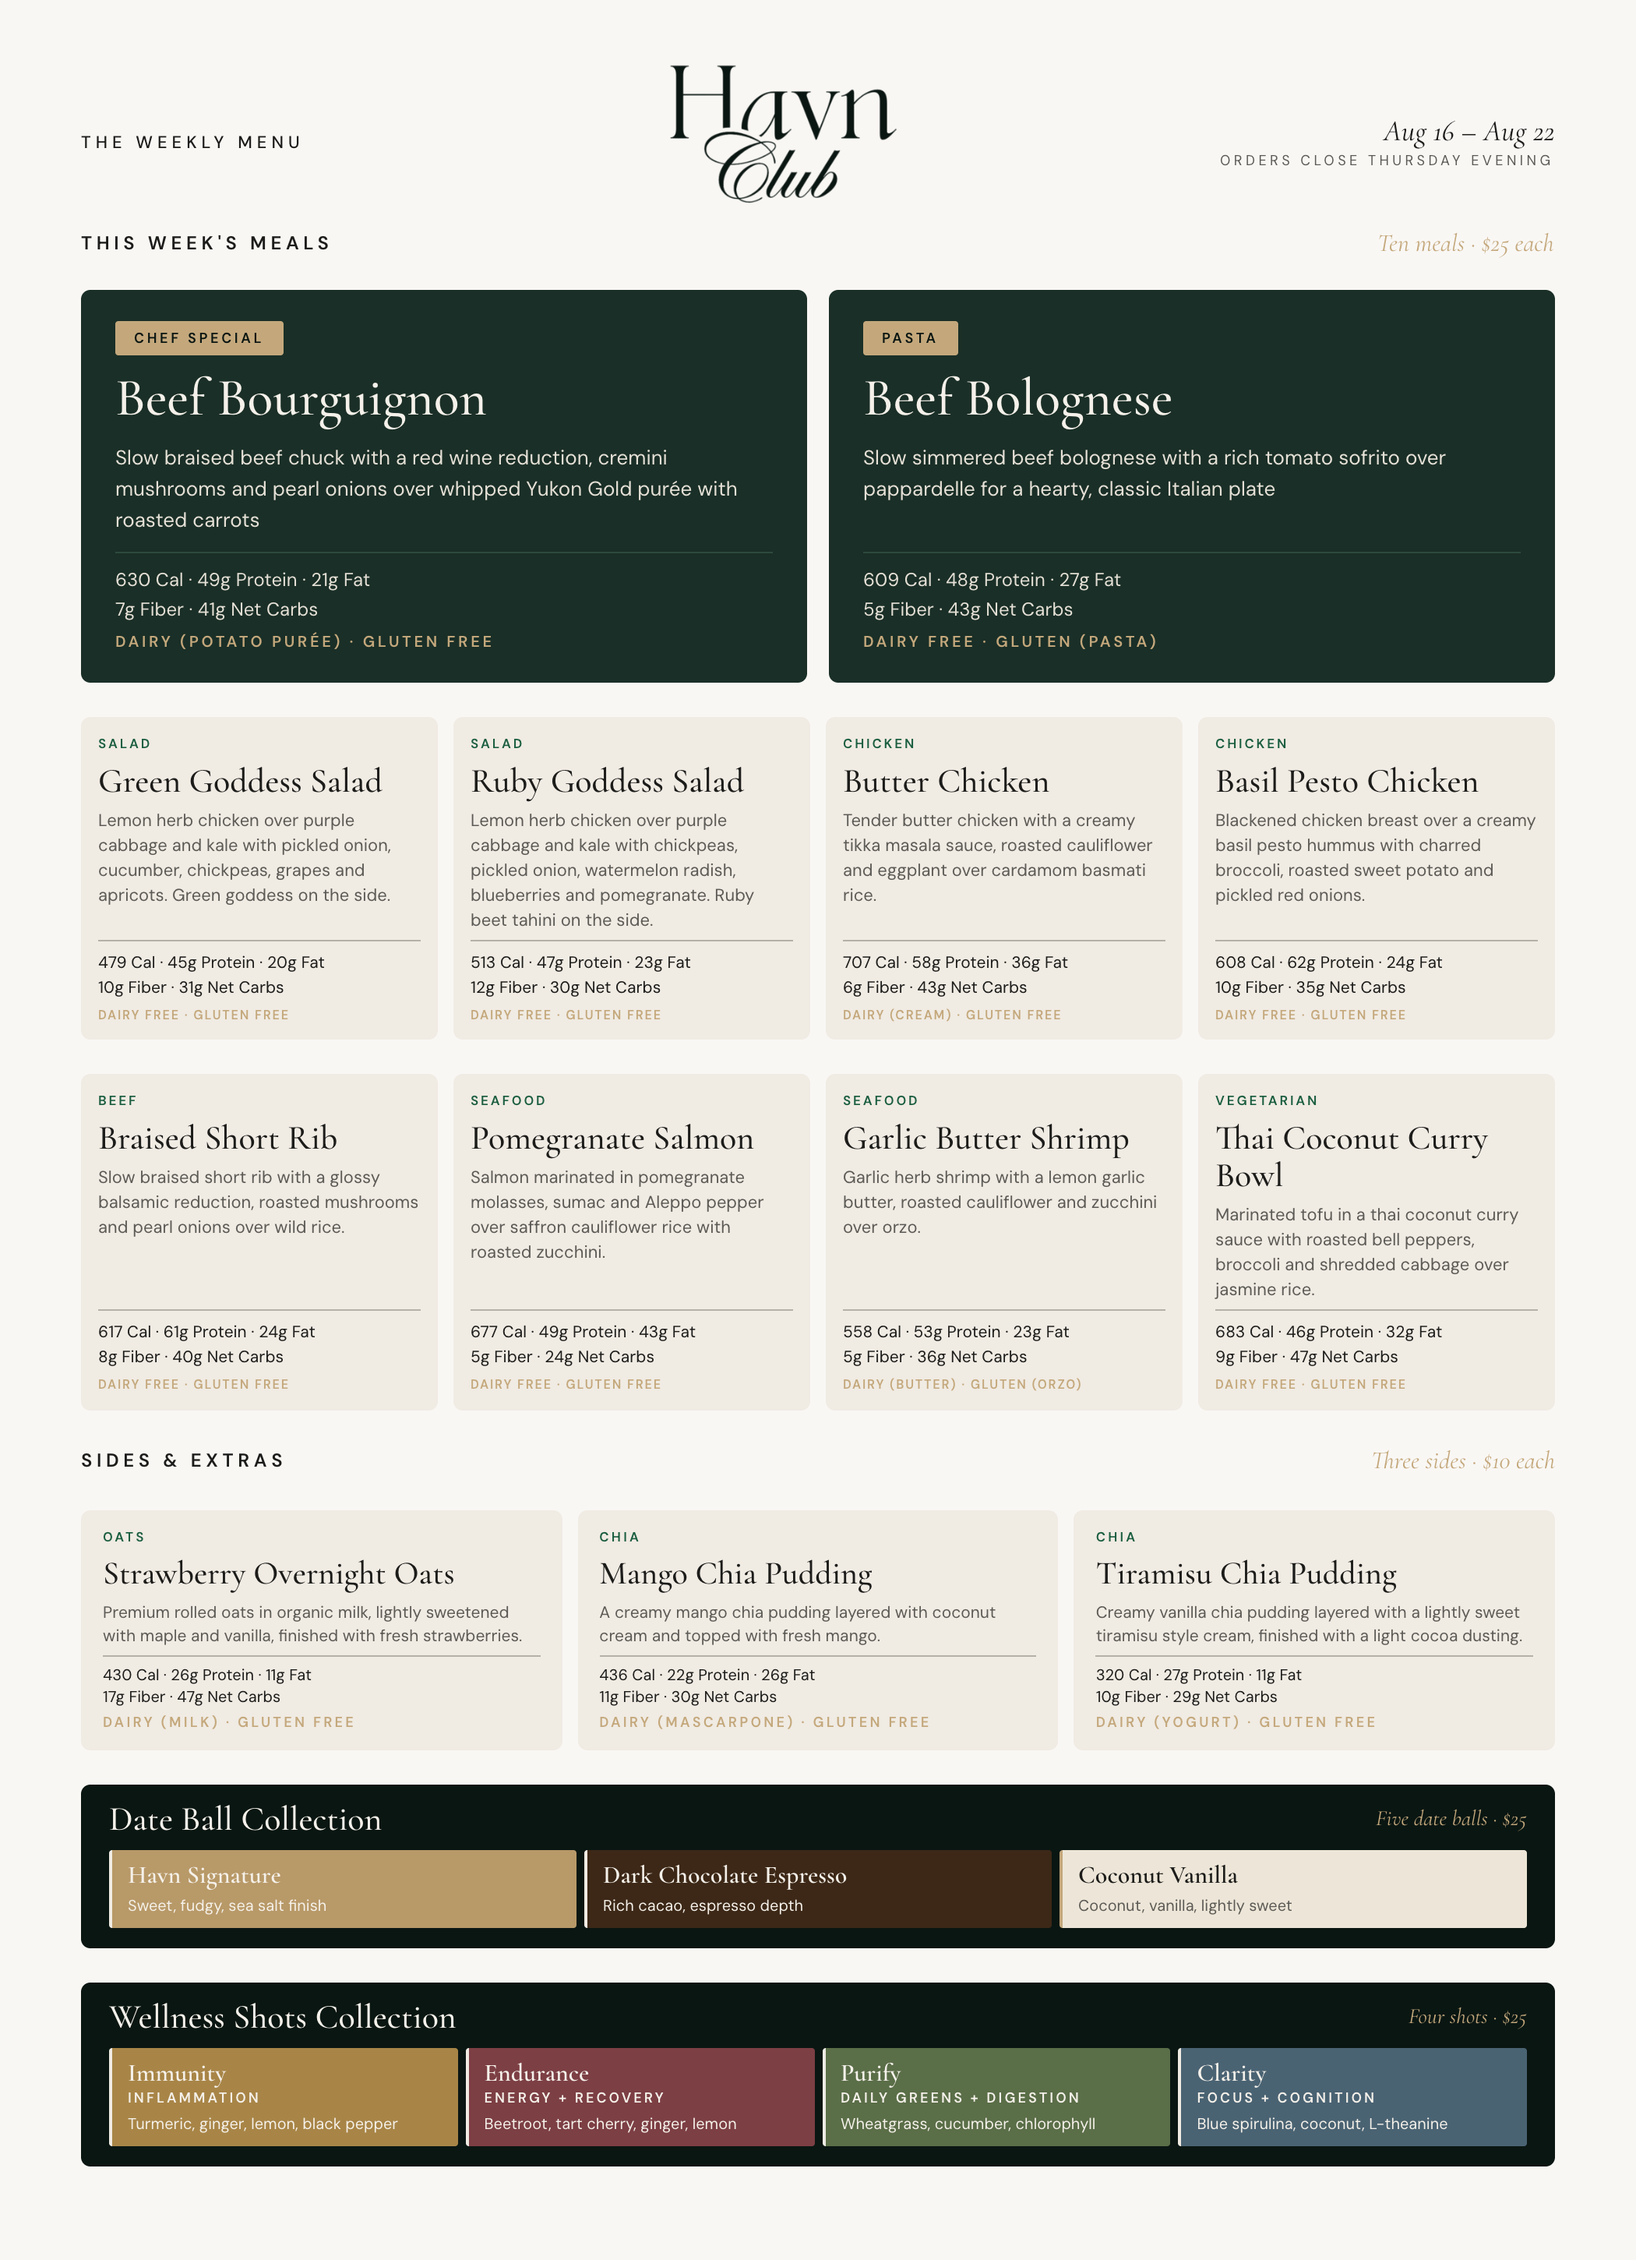
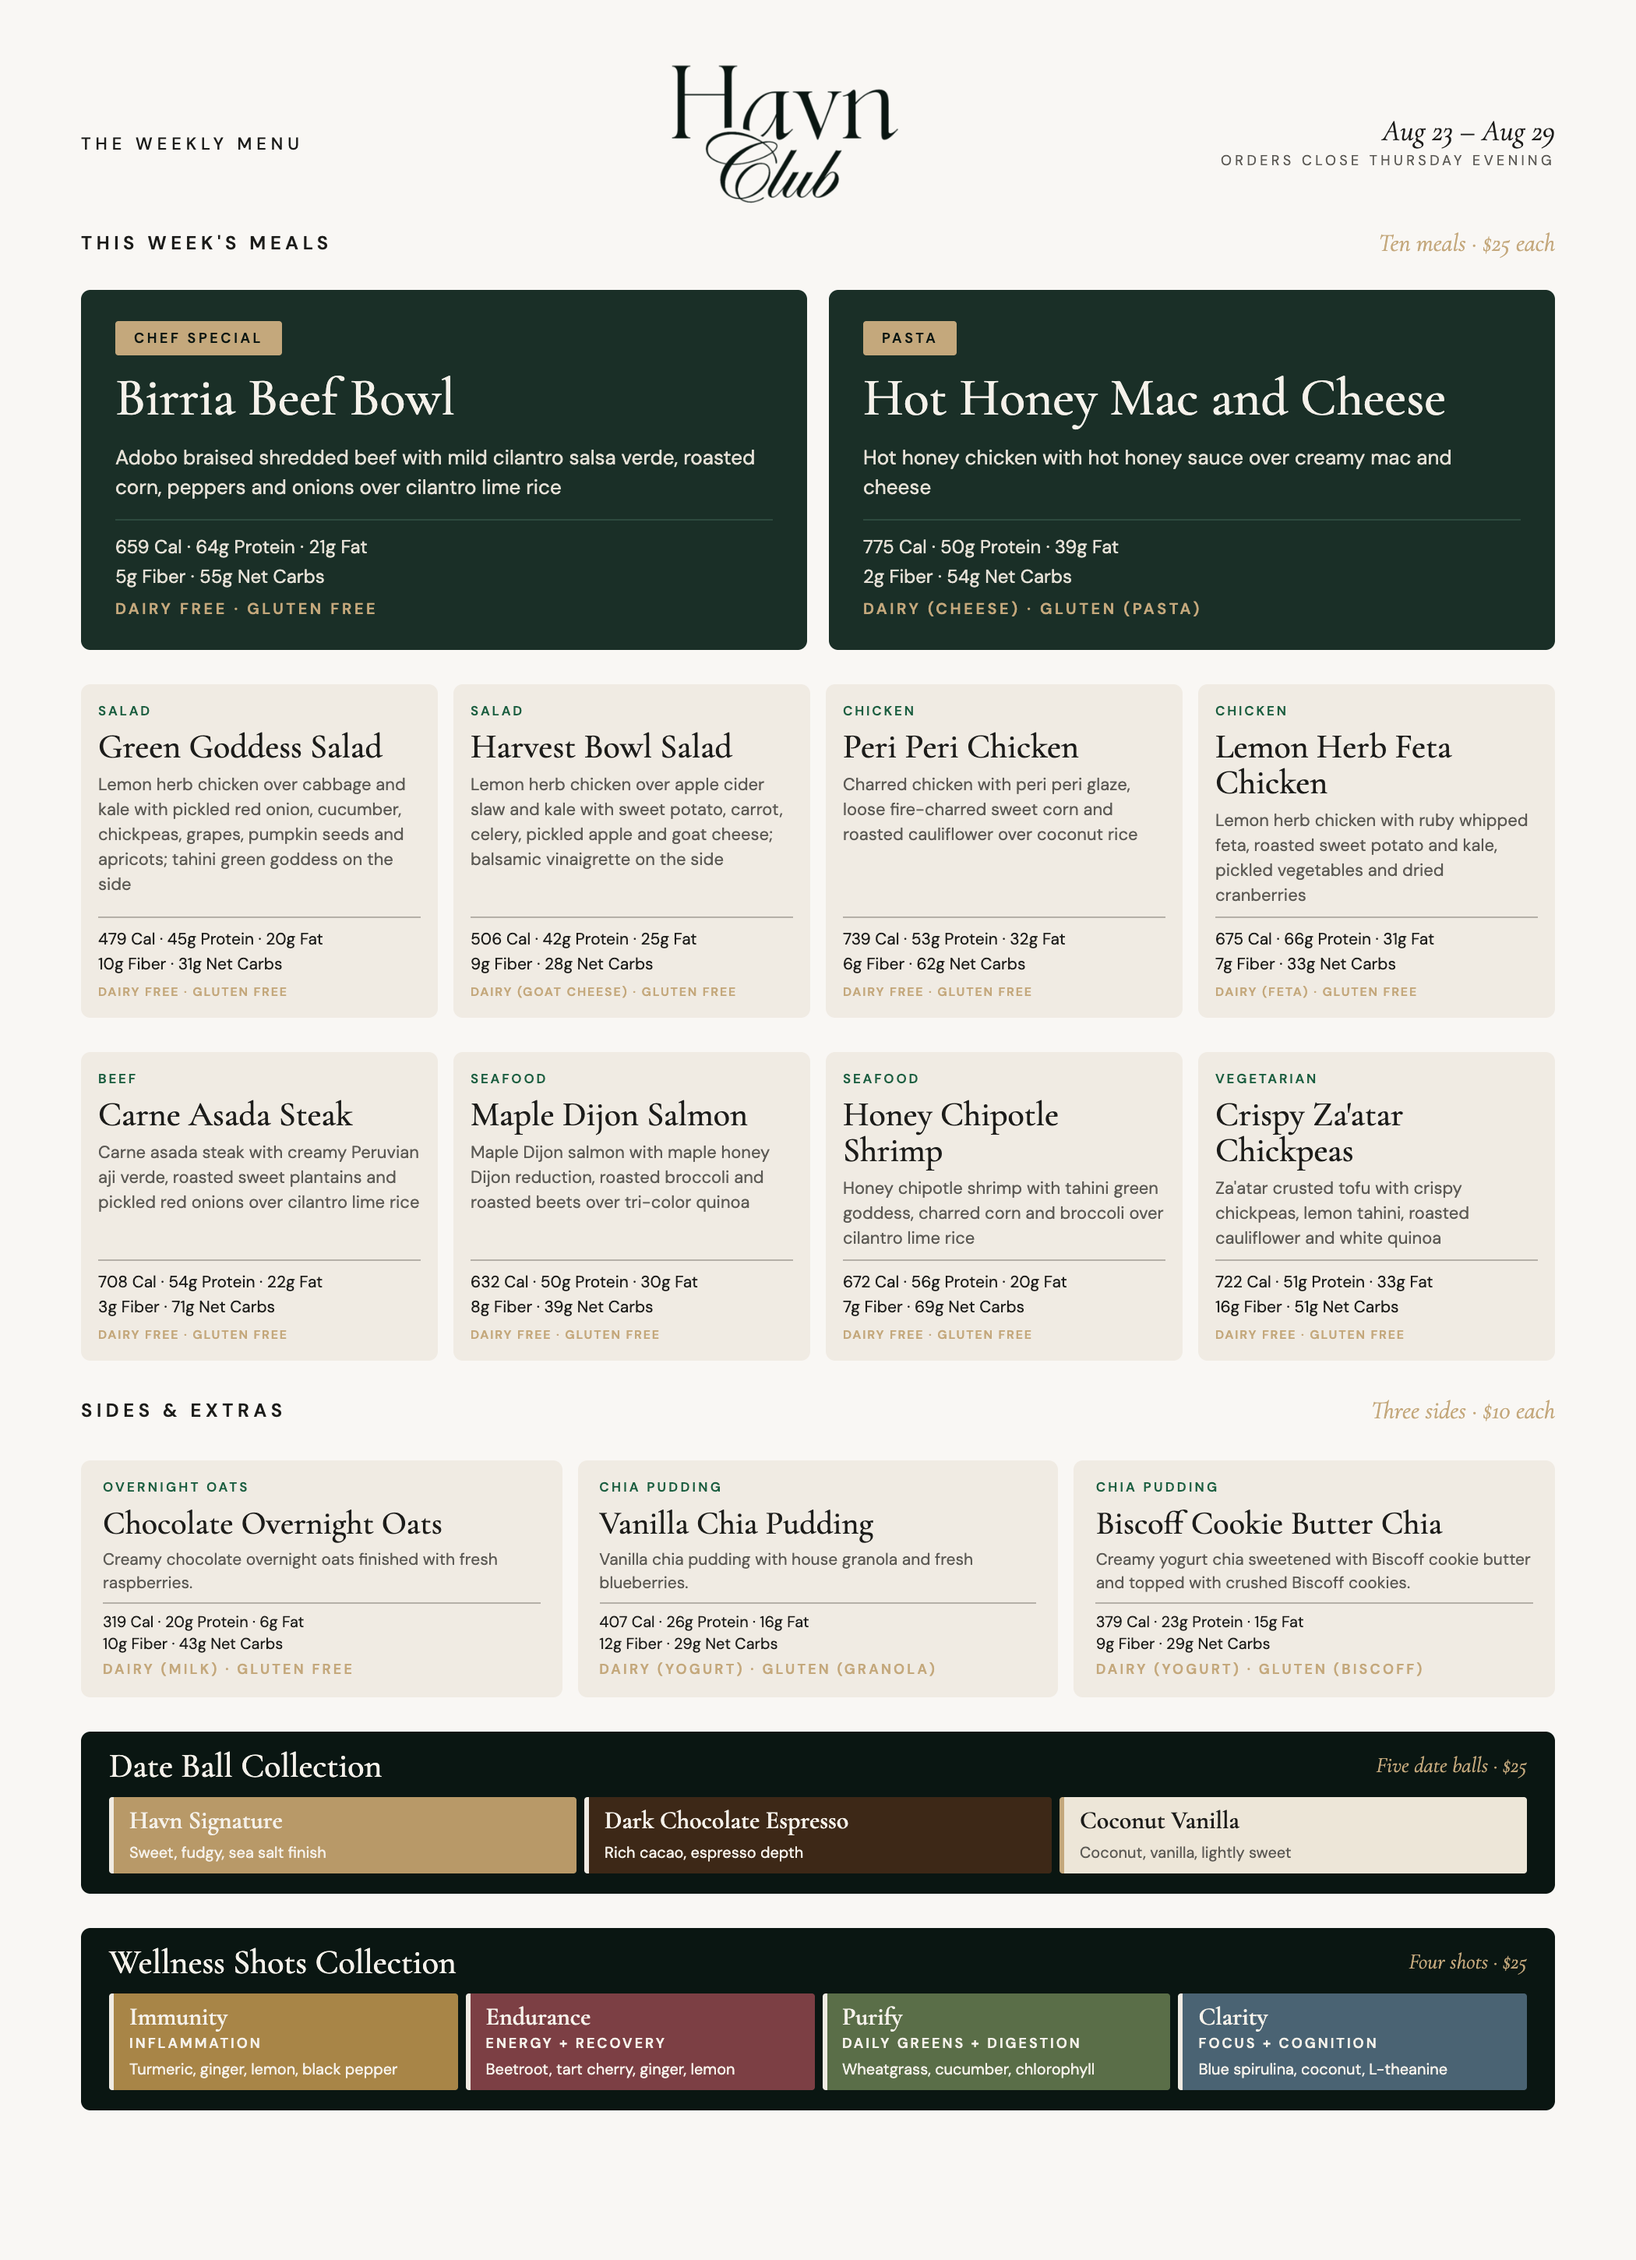
deploy(menu): aug23 page + preview image
Automated weekly push of menu.js/index.html + menu-preview.{png,jpg} so the comms MMS + og:image serve THIS week's menu. Verified live before exit.

Changed region(s): [[0.031, 0.1552, 0.9595, 0.9621], [0.4024, 0.031, 0.5262, 0.0931]]

diff --git a/menu.js b/menu.js
@@ -22,83 +22,84 @@
      the next weekly run overwrites it. Authored content that is not in
      the CSV (collection flavors/notes, bespoke art, short display
      names) lives in menu-data.overrides.json and survives every run. */
+  /* delivery-week: 2026-08-23 */
   var SECTIONS = [
     {
-      label: "Chef picks & beef — $" + mealPrice,
+      label: "Chef picks",
       items: [
         {
-          id: "cheat", name: "Beef Bourguignon", tag: "Chef special", img: "/assets/current/special.jpg",
-          desc: "Slow braised beef chuck with a red wine reduction and cremini mushrooms and pearl onions over whipped Yukon Gold purée.",
-          cal: 630, protein: 49, fat: 21, fiber: 7, carbs: 41,
-          diet: [["Dairy (potato purée)", "allergen"], ["Gluten free", "safe"]]
-        },
-        {
-          id: "beef", name: "Braised Short Rib", tag: "Beef", img: "/assets/current/beef.jpg",
-          desc: "Braised short rib with a balsamic reduction and roasted mushrooms and roasted pearl onions over wild rice.",
-          cal: 617, protein: 61, fat: 24, fiber: 8, carbs: 40,
-          diet: [["Dairy free", "safe"], ["Gluten free", "safe"]]
-        },
-      ]
-    },
-    {
-      label: "Chicken & pasta — $" + mealPrice,
-      items: [
-        {
-          id: "pasta", name: "Beef Bolognese", tag: "Pasta", img: "/assets/current/pasta.jpg",
-          desc: "Beef bolognese with a rich tomato sofrito over pappardelle.",
-          cal: 609, protein: 48, fat: 27, fiber: 5, carbs: 43,
-          diet: [["Dairy free", "safe"], ["Gluten (pasta)", "allergen"]]
-        },
-        {
-          id: "chicken", name: "Butter Chicken", tag: "Chicken", img: "/assets/current/chicken.jpg",
-          desc: "Butter chicken with a creamy tikka masala sauce and roasted cauliflower and roasted eggplant over cardamom basmati rice.",
-          cal: 707, protein: 58, fat: 36, fiber: 6, carbs: 43,
-          diet: [["Dairy (cream)", "allergen"], ["Gluten free", "safe"]]
-        },
-        {
-          id: "chicken_2", name: "Basil Pesto Chicken", tag: "Chicken", img: "/assets/current/chicken_2.jpg",
-          desc: "Blackened chicken breast over a basil pesto hummus with charred broccoli and roasted sweet potato and pickled red onions.",
-          cal: 608, protein: 62, fat: 24, fiber: 10, carbs: 35,
-          diet: [["Dairy free", "safe"], ["Gluten free", "safe"]]
-        }
-      ]
-    },
-    {
-      label: "Seafood — $" + mealPrice,
-      items: [
-        {
-          id: "seafood", name: "Pomegranate Salmon", tag: "Seafood", img: "/assets/current/seafood.jpg",
-          desc: "Pomegranate salmon with a whipped pomegranate sauce and roasted zucchini over saffron cauliflower rice.",
-          cal: 677, protein: 49, fat: 43, fiber: 5, carbs: 24,
+          id: "cheat", name: "Birria Beef Bowl", tag: "Chef special", img: "/assets/current/special.jpg",
+          desc: "Adobo braised shredded beef with a mild cilantro salsa verde and roasted corn and peppers and onions over cilantro lime rice.",
+          cal: 659, protein: 64, fat: 21, fiber: 5, carbs: 55,
           diet: [["Dairy free", "safe"], ["Gluten free", "safe"]]
         },
         {
-          id: "seafood_2", name: "Garlic Butter Shrimp", tag: "Seafood", img: "/assets/current/seafood_2.jpg",
-          desc: "Garlic herb shrimp with a lemon garlic butter and roasted cauliflower and zucchini over orzo.",
-          cal: 558, protein: 53, fat: 23, fiber: 5, carbs: 36,
-          diet: [["Dairy (butter)", "allergen"], ["Gluten (orzo)", "allergen"]]
-        }
-      ]
-    },
-    {
-      label: "Salads & vegetarian — $25",
-      items: [
-        {
-          id: "salad_2", name: "Ruby Goddess Salad", tag: "Salad", img: "/assets/current/salad_2.jpg",
-          desc: "Diced lemon herb chicken over purple cabbage and kale with roasted chickpeas, pickled red onion, watermelon radish, blueberries, pomegranate arils and pumpkin seeds, with ruby beet tahini on the side.",
-          cal: 513, protein: 47, fat: 23, fiber: 12, carbs: 30,
-          diet: [["Dairy free", "safe"], ["Gluten free", "safe"]]
+          id: "pasta", name: "Hot Honey Mac and Cheese", tag: "Pasta", img: "/assets/current/pasta.jpg",
+          desc: "Hot honey chicken with a hot honey sauce over creamy mac and cheese.",
+          cal: 775, protein: 50, fat: 39, fiber: 2, carbs: 54,
+          diet: [["Dairy (cheese)", "allergen"], ["Gluten (pasta)", "allergen"]]
         },
         {
           id: "salad", name: "Green Goddess Salad", tag: "Salad", img: "/assets/current/salad.jpg",
           desc: "Diced lemon herb chicken over shredded purple cabbage and kale with pickled red onion, cucumber, roasted chickpeas, red grapes, toasted pumpkin seeds and dried apricots, with tahini green goddess on the side.",
           cal: 479, protein: 45, fat: 20, fiber: 10, carbs: 31,
           diet: [["Dairy free", "safe"], ["Gluten free", "safe"]]
+        }
+      ]
+    },
+    {
+      label: "Chicken & beef",
+      items: [
+        {
+          id: "chicken", name: "Peri Peri Chicken", tag: "Chicken", img: "/assets/current/chicken.jpg",
+          desc: "Charred chicken with a peri peri glaze and fire charred sweet corn and roasted cauliflower over coconut rice.",
+          cal: 739, protein: 53, fat: 32, fiber: 6, carbs: 62,
+          diet: [["Dairy free", "safe"], ["Gluten free", "safe"]]
         },
         {
-          id: "vegetarian", name: "Thai Coconut Curry Bowl", tag: "Vegetarian", img: "/assets/current/veg.jpg",
-          desc: "Marinated tofu with a thai coconut curry sauce and roasted bell peppers and broccoli and shredded cabbage over jasmine rice.",
-          cal: 683, protein: 46, fat: 32, fiber: 9, carbs: 47,
+          id: "chicken_2", name: "Lemon Herb Feta Chicken", tag: "Chicken", img: "/assets/current/chicken_2.jpg",
+          desc: "Lemon herb chicken with a ruby whipped feta and roasted sweet potato and lacinato kale with a house pickled vegetable medley.",
+          cal: 675, protein: 66, fat: 31, fiber: 7, carbs: 33,
+          diet: [["Dairy (feta)", "allergen"], ["Gluten free", "safe"]]
+        },
+        {
+          id: "beef", name: "Carne Asada Steak", tag: "Beef", img: "/assets/current/beef.jpg",
+          desc: "Carne asada steak with a creamy Peruvian aji verde and roasted sweet plantains and pickled red onions over cilantro lime rice.",
+          cal: 708, protein: 54, fat: 22, fiber: 3, carbs: 71,
+          diet: [["Dairy free", "safe"], ["Gluten free", "safe"]]
+        }
+      ]
+    },
+    {
+      label: "Seafood",
+      items: [
+        {
+          id: "seafood", name: "Maple Dijon Salmon", tag: "Seafood", img: "/assets/current/seafood.jpg",
+          desc: "Maple Dijon salmon with a maple honey Dijon reduction and roasted broccoli and roasted beets over tri-color quinoa.",
+          cal: 632, protein: 50, fat: 30, fiber: 8, carbs: 39,
+          diet: [["Dairy free", "safe"], ["Gluten free", "safe"]]
+        },
+        {
+          id: "seafood_2", name: "Honey Chipotle Shrimp", tag: "Seafood", img: "/assets/current/seafood_2.jpg",
+          desc: "Honey chipotle shrimp with a tahini green goddess dressing and charred corn and charred broccoli over cilantro lime rice.",
+          cal: 672, protein: 56, fat: 20, fiber: 7, carbs: 69,
+          diet: [["Dairy free", "safe"], ["Gluten free", "safe"]]
+        }
+      ]
+    },
+    {
+      label: "Salads & vegetarian",
+      items: [
+        {
+          id: "salad_2", name: "Harvest Bowl Salad", tag: "Salad", img: "/assets/current/salad_2.jpg",
+          desc: "Diced lemon herb chicken over apple cider slaw and kale with roasted sweet potato, shaved carrot and celery, spiced pickled apple and goat cheese, with balsamic vinaigrette on the side.",
+          cal: 506, protein: 42, fat: 25, fiber: 9, carbs: 28,
+          diet: [["Dairy (goat cheese)", "allergen"], ["Gluten free", "safe"]]
+        },
+        {
+          id: "vegetarian", name: "Crispy Za'atar Chickpeas", tag: "Vegetarian", img: "/assets/current/veg.jpg",
+          desc: "Za'atar crusted tofu with crispy za'atar chickpeas and a lemon tahini sauce and roasted cauliflower over white quinoa.",
+          cal: 722, protein: 51, fat: 33, fiber: 16, carbs: 51,
           diet: [["Dairy free", "safe"], ["Gluten free", "safe"]]
         }
       ]
@@ -109,22 +110,22 @@
       side: true,
       items: [
         {
-          id: "oats", name: "Strawberry Overnight Oats", tag: "Oats", side: true,
-          desc: "Premium rolled oats in organic milk, lightly sweetened with maple and vanilla, finished with fresh strawberries.",
-          cal: 430, protein: 26, fat: 11, fiber: 17, carbs: 47,
+          id: "oats", name: "Chocolate Overnight Oats", tag: "Oats", side: true,
+          desc: "Creamy chocolate overnight oats finished with fresh raspberries.",
+          cal: 319, protein: 20, fat: 6, fiber: 10, carbs: 43,
           diet: [["Dairy (milk)", "allergen"], ["Gluten free", "safe"]]
         },
         {
-          id: "chia", name: "Mango Chia Pudding", tag: "Chia", side: true,
-          desc: "A creamy mango chia pudding layered with coconut cream and topped with fresh mango.",
-          cal: 436, protein: 22, fat: 26, fiber: 11, carbs: 30,
-          diet: [["Dairy (mascarpone)", "allergen"], ["Gluten free", "safe"]]
+          id: "chia", name: "Vanilla Chia Pudding", tag: "Chia", side: true,
+          desc: "Vanilla chia pudding with house granola and fresh blueberries.",
+          cal: 407, protein: 26, fat: 16, fiber: 12, carbs: 29,
+          diet: [["Dairy (yogurt)", "allergen"], ["Gluten (granola)", "allergen"]]
         },
         {
-          id: "chia_2", name: "Tiramisu Chia Pudding", tag: "Chia", side: true,
-          desc: "Tiramisu chia pudding with a sweet tiramisu style cream topped with a light cocoa dusting.",
-          cal: 320, protein: 27, fat: 11, fiber: 10, carbs: 29,
-          diet: [["Dairy (yogurt)", "allergen"], ["Gluten free", "safe"]]
+          id: "chia_2", name: "Biscoff Cookie Butter Chia", tag: "Chia", side: true,
+          desc: "Creamy yogurt chia sweetened with Biscoff cookie butter and topped with crushed Biscoff cookies.",
+          cal: 379, protein: 23, fat: 15, fiber: 9, carbs: 29,
+          diet: [["Dairy (yogurt)", "allergen"], ["Gluten (biscoff)", "allergen"]]
         }
       ]
     },
